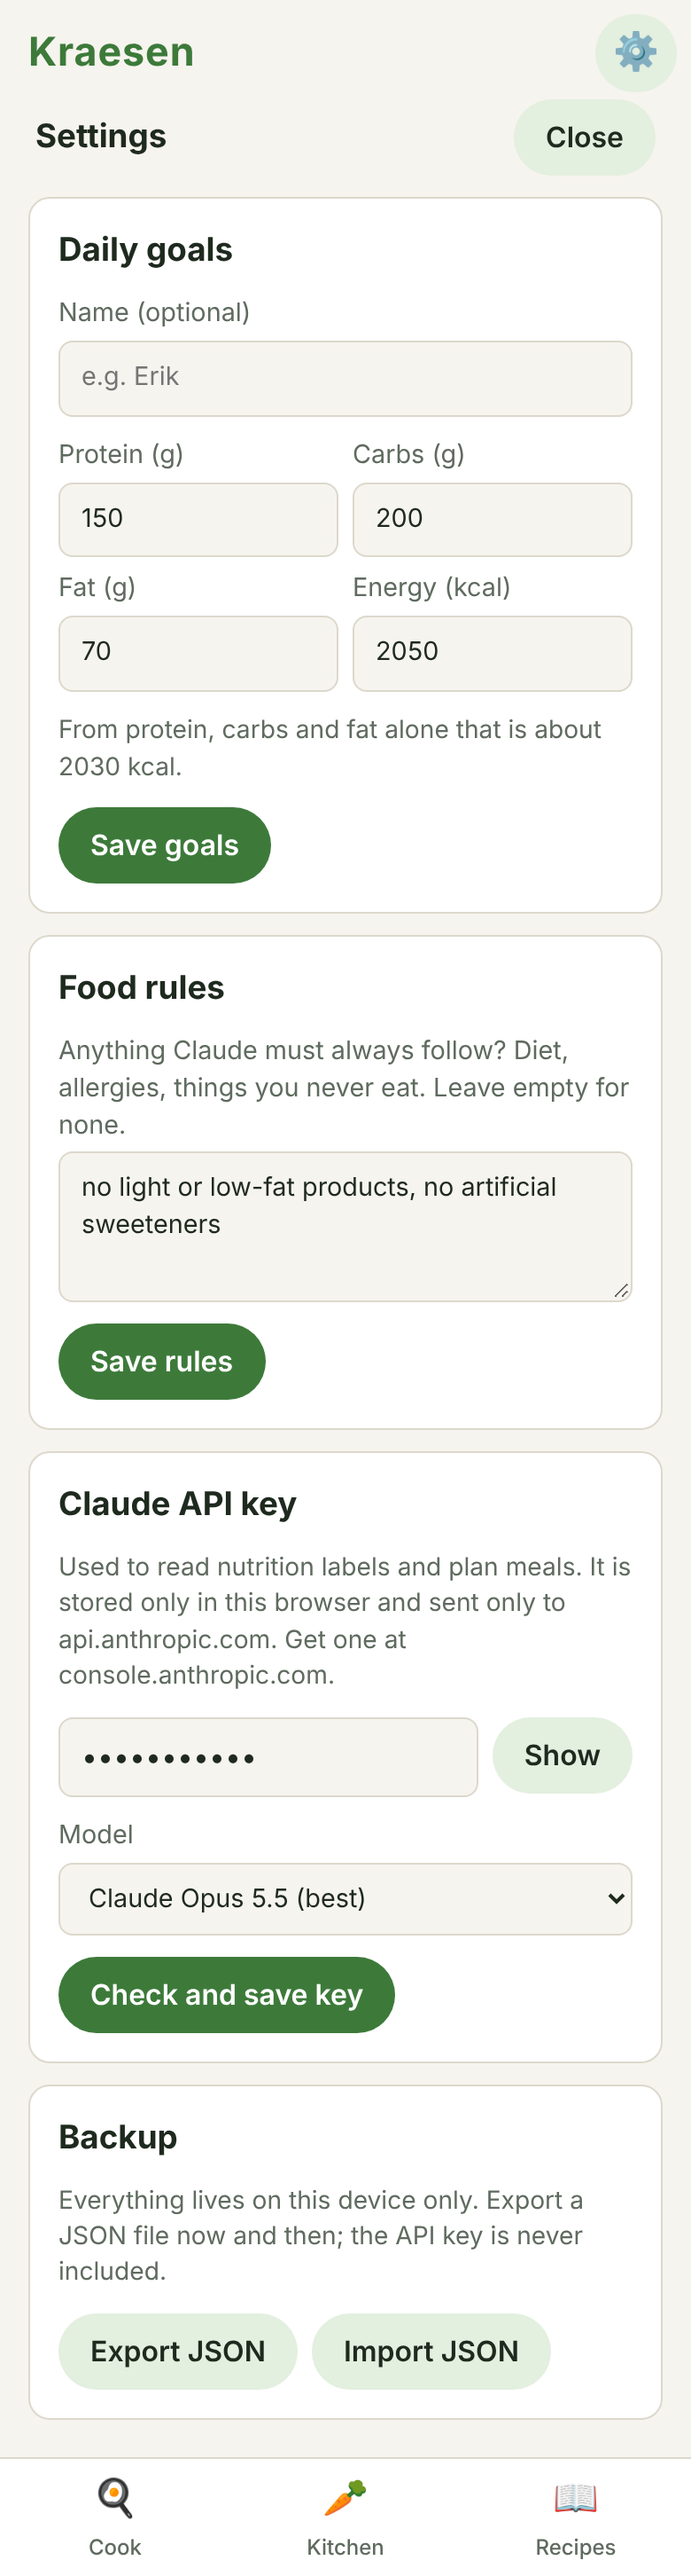
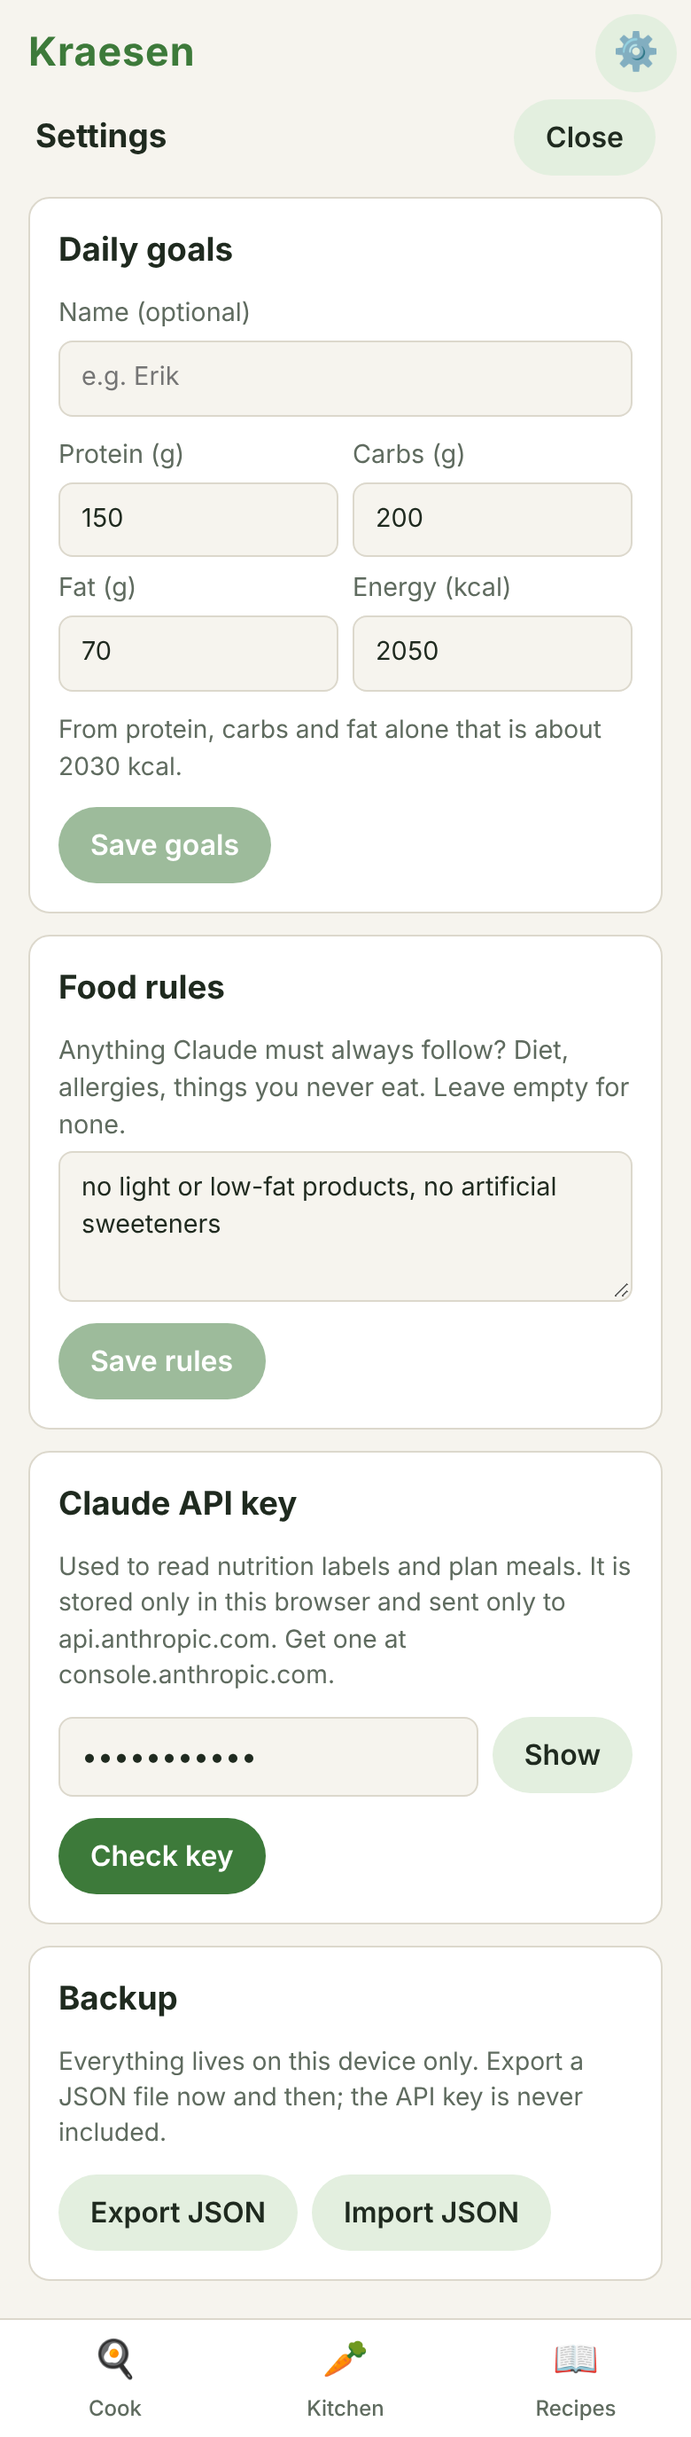
fix: no Save anyway for a saved key; say Staples on Cook
A failed check of the saved key now says the key is kept instead of offering to save it again, and Save anyway confirms the save. A passing check of the saved key no longer re-saves it. Cook's line says Staples, matching Kitchen. Screenshots refreshed.

Claude-Session: https://claude.ai/code/session_01NExJTuMKn94z8RMGD2mQMk

diff --git a/src/components/ProfileForms.tsx b/src/components/ProfileForms.tsx
@@ -32,9 +32,9 @@ export function GoalsForm({ onSaved }: { onSaved?: () => void }) {
   const [goals, setGoals] = useState<Macros>(state.profile?.dailyGoals ?? DEFAULT_GOALS)
   const [note, flash] = useSavedNote()
   const derivedKcal = Math.round(goals.protein * 4 + goals.carbs * 4 + goals.fat * 9)
-  // Before the first save there is no profile, so the suggested goals can be saved as they are.
   const next = { name: name.trim(), dailyGoals: goals }
   const { profile } = state
+  // Before the first save there is no profile, so the suggested goals can be saved as they are.
   const changed = !profile || next.name !== profile.name || !sameMacros(next.dailyGoals, profile.dailyGoals)
   return (
     <>
@@ -107,7 +107,7 @@ export function RulesForm({ onSaved }: { onSaved?: () => void }) {
   )
 }
 
-type Check = { kind: 'idle' } | { kind: 'checking' } | { kind: 'ok' } | { kind: 'failed'; message: string }
+type Check = { kind: 'idle' } | { kind: 'checking' } | { kind: 'ok'; saved: boolean } | { kind: 'failed'; message: string } | { kind: 'savedAnyway' }
 
 export function KeyForm({ onSaved }: { onSaved?: () => void }) {
   const { state, update } = useStore()
@@ -127,12 +127,12 @@ export function KeyForm({ onSaved }: { onSaved?: () => void }) {
     let result: Check
     try {
       await checkKey(key)
-      result = { kind: 'ok' }
+      result = { kind: 'ok', saved: !unchanged }
     } catch (e) {
       result = { kind: 'failed', message: describeError(e).message }
     }
     setCheck(result)
-    if (result.kind === 'ok') {
+    if (result.kind === 'ok' && result.saved) {
       update((s) => ({ ...s, settings: { ...s.settings, apiKey: key } }))
       onSaved?.()
     }
@@ -140,6 +140,7 @@ export function KeyForm({ onSaved }: { onSaved?: () => void }) {
 
   const saveAnyway = () => {
     update((s) => ({ ...s, settings: { ...s.settings, apiKey: key } }))
+    setCheck({ kind: 'savedAnyway' })
     onSaved?.()
   }
 
@@ -169,14 +170,20 @@ export function KeyForm({ onSaved }: { onSaved?: () => void }) {
         <button type="button" onClick={checkAndSave} disabled={!key || check.kind === 'checking' || (unchanged && check.kind === 'ok')}>
           {check.kind === 'checking' ? 'Checking…' : unchanged ? 'Check key' : 'Check and save key'}
         </button>
-        {check.kind === 'ok' && <span className="hint ok-note">The key works. Saved.</span>}
+        {check.kind === 'ok' && <span className="hint ok-note">{check.saved ? 'The key works. Saved.' : 'The key works.'}</span>}
+        {check.kind === 'savedAnyway' && <span className="hint">Saved without a working check.</span>}
       </div>
       {check.kind === 'failed' && (
         <div className="error" role="alert">
           <p>The check failed: {check.message}</p>
-          <button type="button" className="link" onClick={saveAnyway}>
-            Save this key anyway
-          </button>
+          {/* A saved key needs no saving; it stays as it is. */}
+          {unchanged ? (
+            <p>Your saved key is kept.</p>
+          ) : (
+            <button type="button" className="link" onClick={saveAnyway}>
+              Save this key anyway
+            </button>
+          )}
         </div>
       )}
     </>

diff --git a/src/components/CookPage.tsx b/src/components/CookPage.tsx
@@ -317,7 +317,7 @@ function Planner({ profile, openSheet, goToKitchen }: PlannerProps) {
               </button>
             </li>
             <li>
-              {staples.length ? `Seasonings: ${staples.join(', ')}.` : 'No seasonings listed, so no salt or spices.'}{' '}
+              {staples.length ? `Staples: ${staples.join(', ')}.` : 'No staples listed, so no salt or spices.'}{' '}
               <button type="button" className="link" onClick={goToKitchen}>
                 {staples.length ? 'Edit' : 'Add'}
               </button>
